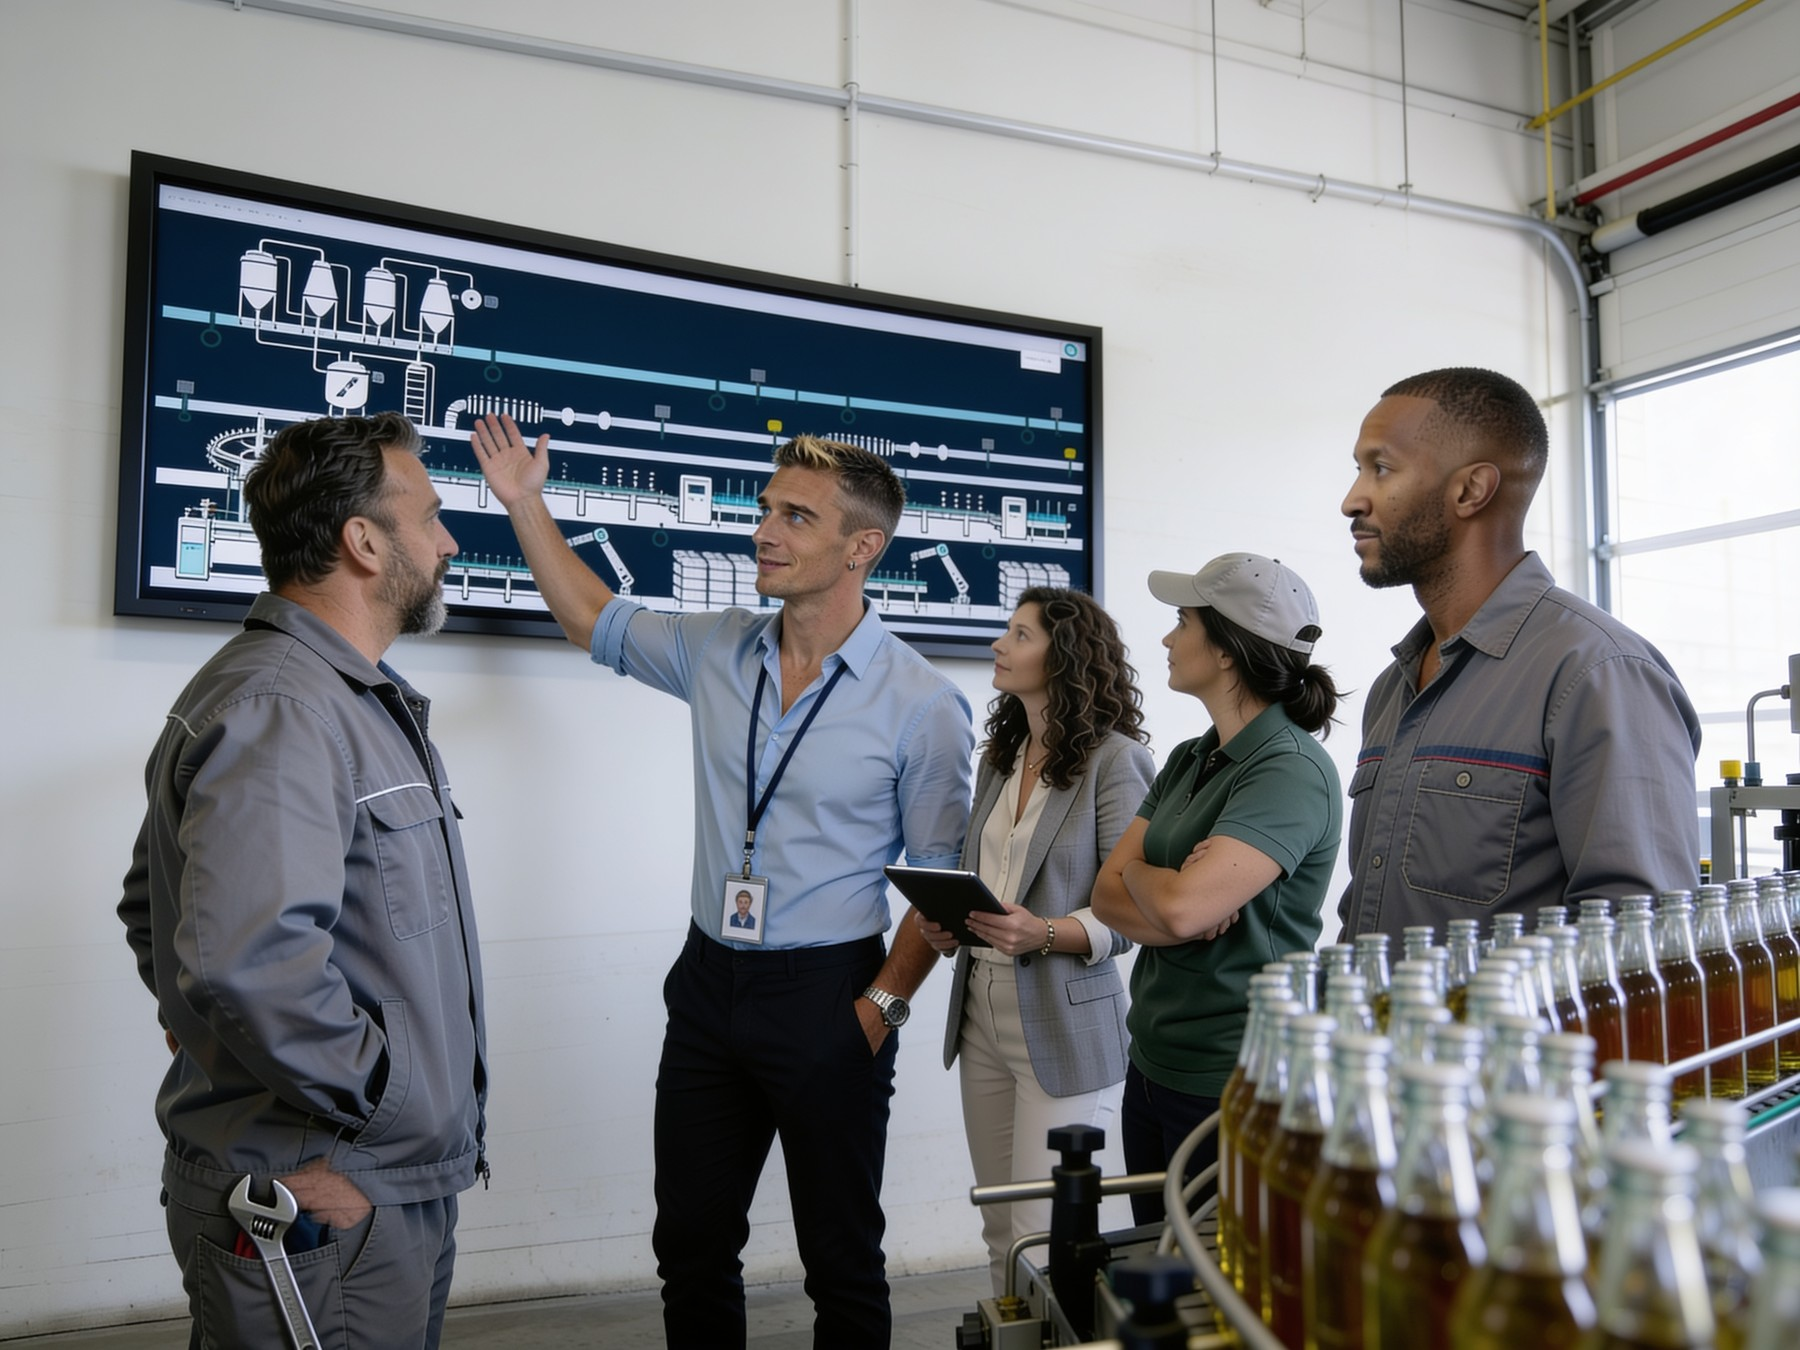
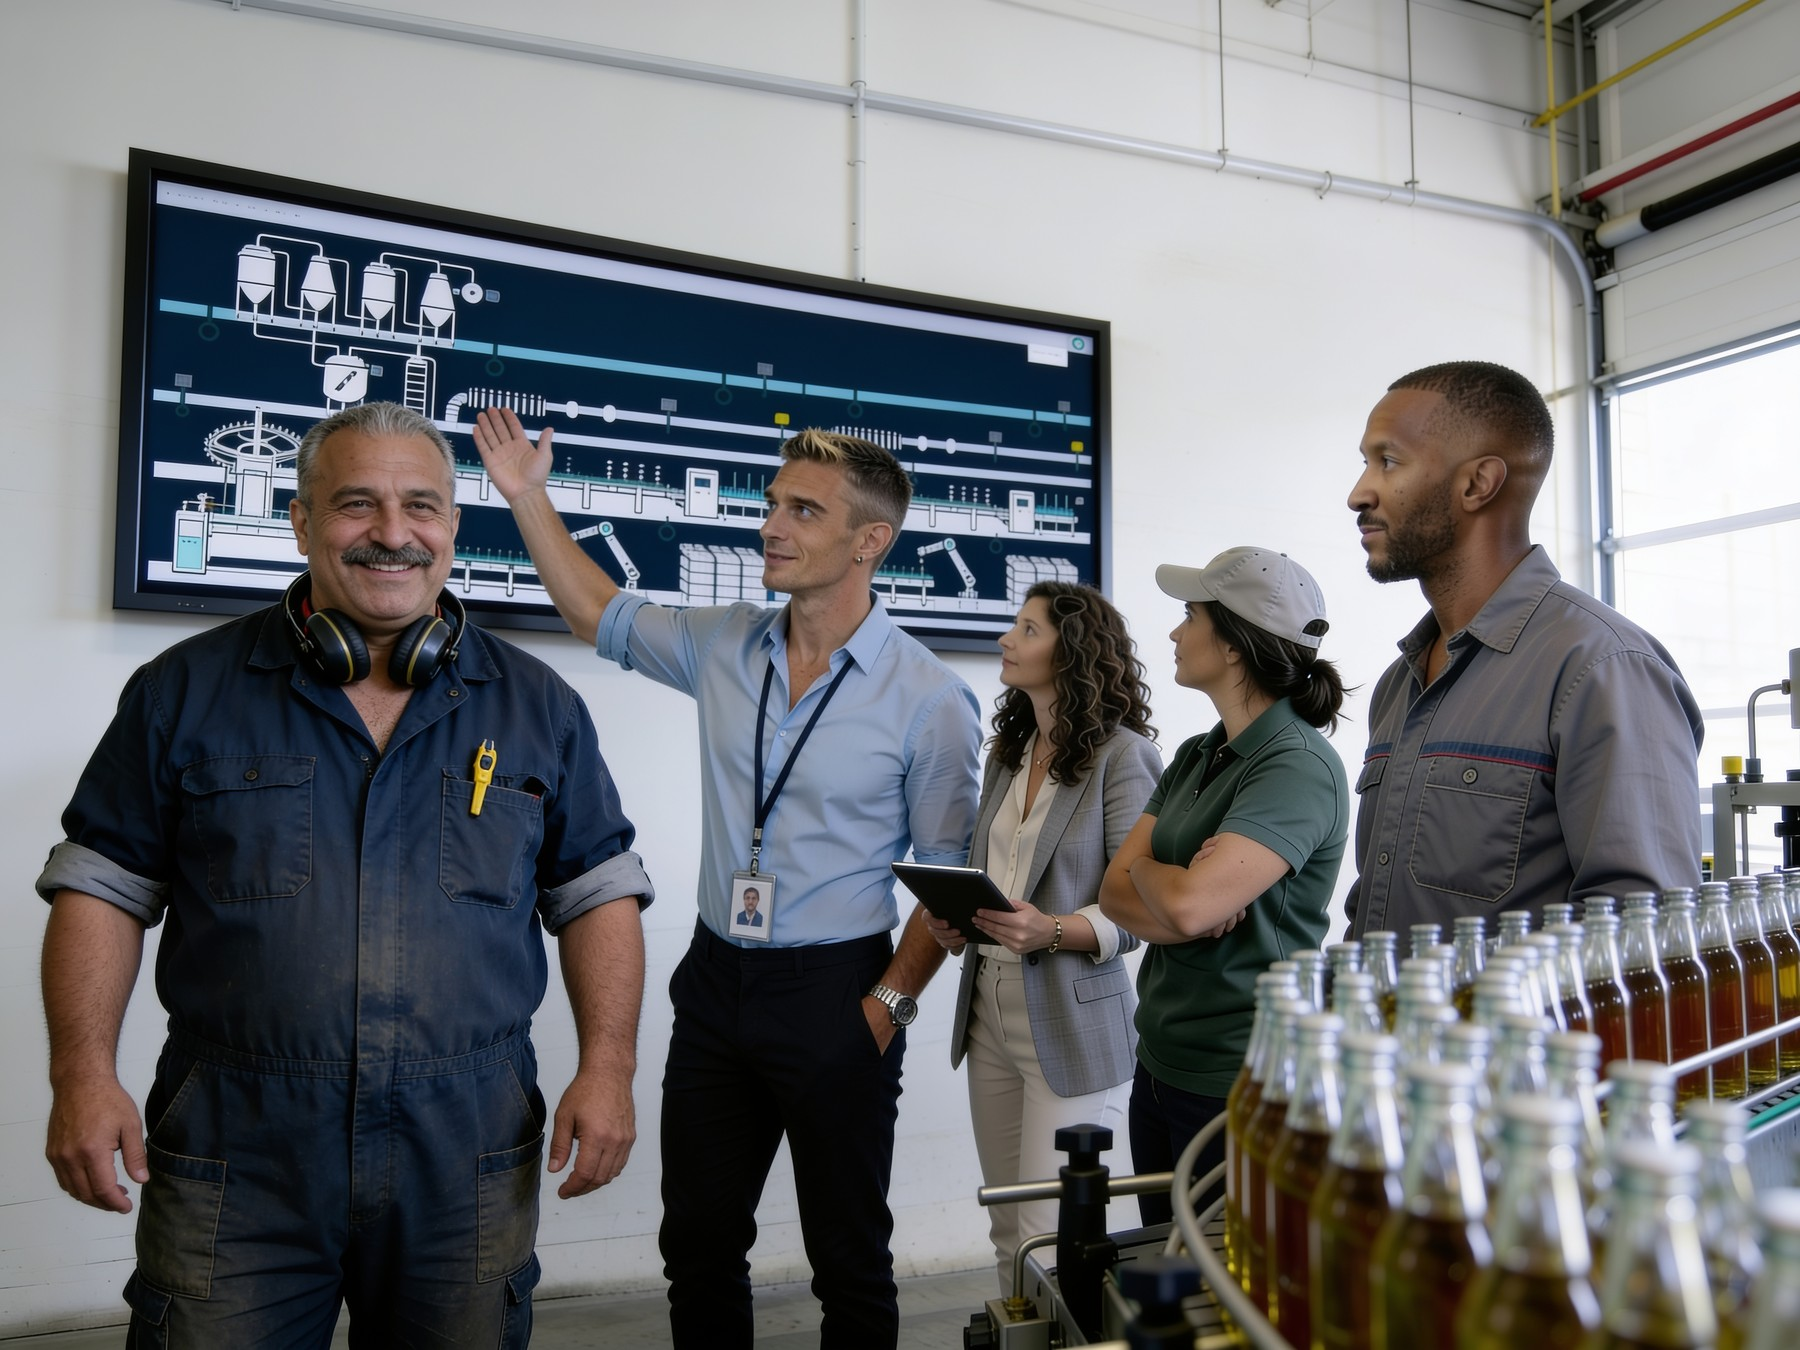
fix(site): every page opens at its top; Home band 2 plate re-rendered
- The header's page links no longer let the router scroll a new page to its first section; a small
  client component (ScrollTop) puts every page at its top on a route change without a hash. Hash links
  keep landing on their section.
- Home band 2 and the partner pages: WB-02b re-rendered (the man at the far left recast).

diff --git a/website/components/site/Header.tsx b/website/components/site/Header.tsx
@@ -3,6 +3,7 @@ import { getTranslations } from "next-intl/server";
 import { CAPABILITIES, PARTNERS, WHY, HEADER, type MenuColumn } from "@/content/menu";
 import { href } from "@/content/routes";
 import MenuCloser from "./MenuCloser";
+import ScrollTop from "./ScrollTop";
 
 /**
  * The header, from the menu's ONE definition (content/menu.ts, ported from the mocks - D77, D97).
@@ -23,7 +24,7 @@ export default async function Header() {
   return (
     <header>
       <div className="wrap">
-        <Link className="lock" href={HEADER.home} aria-label={`${t("logoAlt")} - ${t("home")}`} title={t("home")}>
+        <Link className="lock" href={HEADER.home} scroll={false} aria-label={`${t("logoAlt")} - ${t("home")}`} title={t("home")}>
           {/* the brand lock-up is an SVG pair: the symbol, then the wordmark (BRAND-ASSETS.md) */}
           {/* eslint-disable-next-line @next/next/no-img-element */}
           <img className="sym" src="/assets/brand/symbol/symbol-light.svg" alt="" />
@@ -41,13 +42,15 @@ export default async function Header() {
         <nav>
           {/* a phone menu needs a Home entry of its own; on a wide screen the lock-up is it
               (the desktop menu itself is locked by D77) - CSS shows this one under 820px only */}
-          <Link className="navhome" href={HEADER.home}>
+          <Link className="navhome" href={HEADER.home} scroll={false}>
             {t("home")}
           </Link>
-          <Link href={HEADER.platform.href}>{HEADER.platform.label}</Link>
+          <Link href={HEADER.platform.href} scroll={false}>
+            {HEADER.platform.label}
+          </Link>
 
           <div className="dd">
-            <Link href={HEADER.why.href}>
+            <Link href={HEADER.why.href} scroll={false}>
               {HEADER.why.label} <i className="caret" />
             </Link>
             <input type="checkbox" id="m-why" className="mtog" aria-label={`${HEADER.why.label} - the list`} />
@@ -55,7 +58,7 @@ export default async function Header() {
               {HEADER.why.label} <i className="caret" />
             </label>
             <div className="panel why">
-              <Link className="mpage" href={HEADER.why.href}>
+              <Link className="mpage" href={HEADER.why.href} scroll={false}>
                 {HEADER.why.label} · the whole page →
               </Link>
               <p className="pk">The proof · eight things to hold us to</p>
@@ -119,6 +122,7 @@ export default async function Header() {
           </a>
         </nav>
         <MenuCloser />
+        <ScrollTop />
       </div>
     </header>
   );
@@ -128,7 +132,7 @@ function Column({ column }: { column: MenuColumn }) {
   const page = href(column.anchor);
   return (
     <div className="col">
-      <Link className="capname" href={page}>
+      <Link className="capname" href={page} scroll={false}>
         {column.name}
       </Link>
       <p className="promise">{column.promise}</p>
@@ -139,7 +143,7 @@ function Column({ column }: { column: MenuColumn }) {
           </li>
         ))}
       </ul>
-      <Link className="all" href={page}>
+      <Link className="all" href={page} scroll={false}>
         {column.all} →
       </Link>
     </div>

diff --git a/website/components/site/ScrollTop.tsx b/website/components/site/ScrollTop.tsx
@@ -1,0 +1,25 @@
+"use client";
+
+import { useEffect } from "react";
+import { usePathname } from "next/navigation";
+
+/**
+ * A page opens at its top (Karim, 2026-09-19: "for all other pages it opens on the first section instead of
+ * the hero section of the page").
+ *
+ * On a client-side navigation the router scrolls the new page's first visible element into view rather
+ * than the top of the document; on every inner page that element resolves to the sections under the
+ * hero, so the page arrived scrolled one hero height down (560 px at desktop, measured on the live site
+ * for Platform, SCADA, Why SOP and EMS alike). The header's page links now carry `scroll={false}` so the
+ * router leaves the scroll alone, and this effect puts the page at its top on every route change that
+ * carries no hash. A link with a hash (`/scada#scada-trends`, `/#capabilities`) keeps the router's own
+ * scrolling to the section, untouched.
+ */
+export default function ScrollTop() {
+  const pathname = usePathname();
+  useEffect(() => {
+    if (window.location.hash) return;
+    window.scrollTo({ top: 0, left: 0, behavior: "auto" });
+  }, [pathname]);
+  return null;
+}
